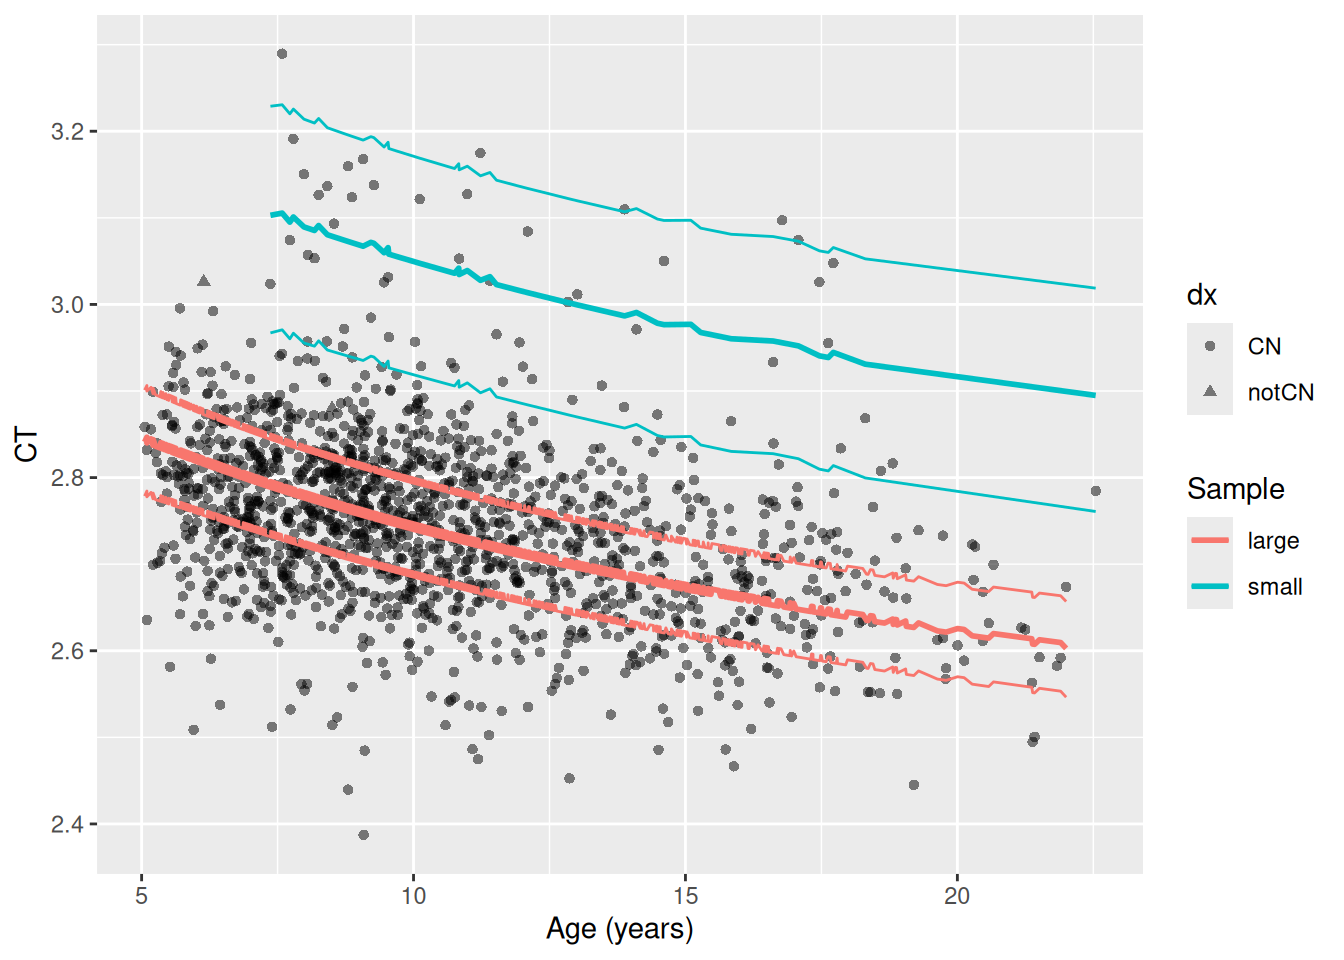
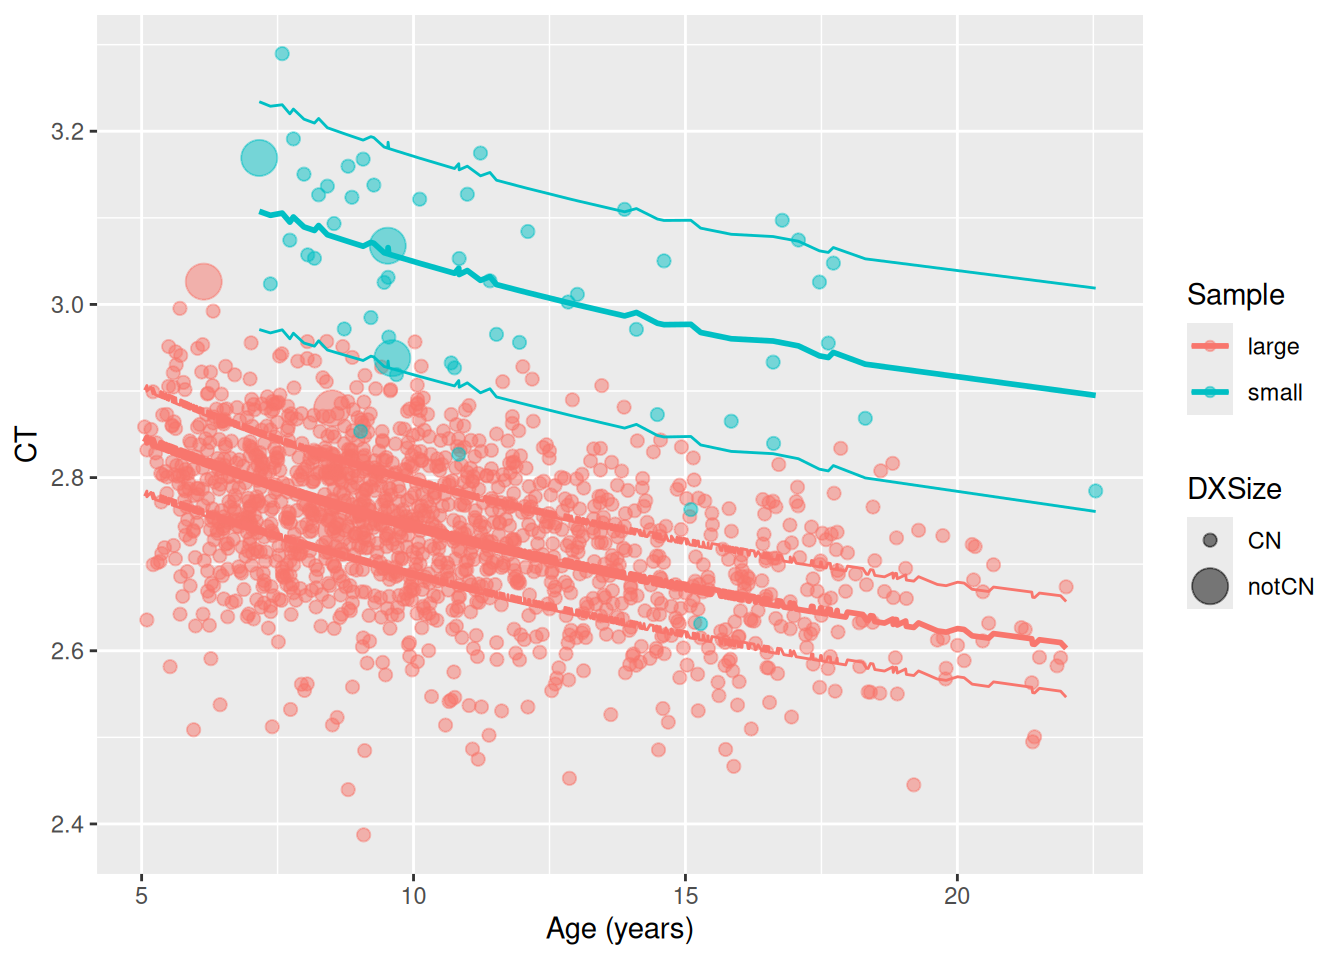
Added patients to calibration. Made patient data points bigger on plots. Explained that the centiles are the frame of reference for comparison after calibration.

diff --git a/docs/calibration_example.html b/docs/calibration_example.html
@@ -520,13 +520,16 @@ sub-NDARZZ598MH8               0.37301763                   0.000265776</code></
 <p>This plot depicts a typical representation of the measured data and the estimated centile lines. The original data are plotted as points with the centile lines overlaid.</p>
 <div class="cell">
 <div class="code-copy-outer-scaffold"><div class="sourceCode cell-code" id="cb19"><pre class="sourceCode r code-with-copy"><code class="sourceCode r"><span id="cb19-1"><a href="#cb19-1" aria-hidden="true" tabindex="-1"></a>T <span class="ot">&lt;-</span> <span class="fu">bind_rows</span>(fullSampleCalibration<span class="sc">$</span>DATA.PRED2, subFakeQuantileCalibration<span class="sc">$</span>DATA.PRED2)</span>
-<span id="cb19-2"><a href="#cb19-2" aria-hidden="true" tabindex="-1"></a></span>
-<span id="cb19-3"><a href="#cb19-3" aria-hidden="true" tabindex="-1"></a><span class="fu">ggplot</span>(T, <span class="fu">aes</span>(<span class="at">x =</span> age_days <span class="sc">/</span> <span class="fl">365.25</span>)) <span class="sc">+</span></span>
-<span id="cb19-4"><a href="#cb19-4" aria-hidden="true" tabindex="-1"></a>  <span class="fu">geom_point</span>(<span class="fu">aes</span>(<span class="at">y =</span> meanCT2Transformed <span class="sc">*</span> <span class="dv">10000</span>, <span class="at">shape =</span> dx), <span class="at">alpha =</span> <span class="fl">0.5</span>) <span class="sc">+</span></span>
-<span id="cb19-5"><a href="#cb19-5" aria-hidden="true" tabindex="-1"></a>  <span class="fu">geom_line</span>(<span class="fu">aes</span>(<span class="at">y =</span> PRED.l250.wre <span class="sc">*</span> <span class="dv">10000</span>, <span class="at">colour=</span>sample)) <span class="sc">+</span> </span>
-<span id="cb19-6"><a href="#cb19-6" aria-hidden="true" tabindex="-1"></a>  <span class="fu">geom_line</span>(<span class="fu">aes</span>(<span class="at">y =</span> PRED.m500.wre <span class="sc">*</span> <span class="dv">10000</span>, <span class="at">colour=</span>sample), <span class="at">linewidth =</span> <span class="dv">1</span>) <span class="sc">+</span></span>
-<span id="cb19-7"><a href="#cb19-7" aria-hidden="true" tabindex="-1"></a>  <span class="fu">geom_line</span>(<span class="fu">aes</span>(<span class="at">y =</span> PRED.u750.wre <span class="sc">*</span> <span class="dv">10000</span>, <span class="at">colour=</span>sample)) <span class="sc">+</span></span>
-<span id="cb19-8"><a href="#cb19-8" aria-hidden="true" tabindex="-1"></a>  <span class="fu">labs</span>(<span class="at">x =</span> <span class="st">"Age (years)"</span>, <span class="at">y =</span> <span class="st">"CT"</span>, <span class="at">colour =</span> <span class="st">"Sample"</span>)</span></code></pre></div><button title="Copy to Clipboard" class="code-copy-button"><i class="bi"></i></button></div>
+<span id="cb19-2"><a href="#cb19-2" aria-hidden="true" tabindex="-1"></a>M <span class="ot">&lt;-</span> <span class="fu">c</span>(<span class="at">CN =</span> <span class="dv">1</span>, <span class="at">notCN =</span> <span class="dv">5</span>)</span>
+<span id="cb19-3"><a href="#cb19-3" aria-hidden="true" tabindex="-1"></a></span>
+<span id="cb19-4"><a href="#cb19-4" aria-hidden="true" tabindex="-1"></a>T<span class="sc">$</span>DXSize <span class="ot">&lt;-</span> <span class="fu">factor</span>(M[T<span class="sc">$</span>dx], <span class="at">labels=</span><span class="fu">c</span>(<span class="st">"CN"</span>, <span class="st">"notCN"</span>))</span>
+<span id="cb19-5"><a href="#cb19-5" aria-hidden="true" tabindex="-1"></a></span>
+<span id="cb19-6"><a href="#cb19-6" aria-hidden="true" tabindex="-1"></a><span class="fu">ggplot</span>(T, <span class="fu">aes</span>(<span class="at">x =</span> age_days <span class="sc">/</span> <span class="fl">365.25</span>)) <span class="sc">+</span></span>
+<span id="cb19-7"><a href="#cb19-7" aria-hidden="true" tabindex="-1"></a>  <span class="fu">geom_point</span>(<span class="fu">aes</span>(<span class="at">y =</span> meanCT2Transformed <span class="sc">*</span> <span class="dv">10000</span>, <span class="at">colour=</span>sample, <span class="at">size =</span> DXSize), <span class="at">alpha =</span> <span class="fl">0.5</span>) <span class="sc">+</span></span>
+<span id="cb19-8"><a href="#cb19-8" aria-hidden="true" tabindex="-1"></a>  <span class="fu">geom_line</span>(<span class="fu">aes</span>(<span class="at">y =</span> PRED.l250.wre <span class="sc">*</span> <span class="dv">10000</span>, <span class="at">colour=</span>sample)) <span class="sc">+</span> </span>
+<span id="cb19-9"><a href="#cb19-9" aria-hidden="true" tabindex="-1"></a>  <span class="fu">geom_line</span>(<span class="fu">aes</span>(<span class="at">y =</span> PRED.m500.wre <span class="sc">*</span> <span class="dv">10000</span>, <span class="at">colour=</span>sample), <span class="at">linewidth =</span> <span class="dv">1</span>) <span class="sc">+</span></span>
+<span id="cb19-10"><a href="#cb19-10" aria-hidden="true" tabindex="-1"></a>  <span class="fu">geom_line</span>(<span class="fu">aes</span>(<span class="at">y =</span> PRED.u750.wre <span class="sc">*</span> <span class="dv">10000</span>, <span class="at">colour=</span>sample)) <span class="sc">+</span></span>
+<span id="cb19-11"><a href="#cb19-11" aria-hidden="true" tabindex="-1"></a>  <span class="fu">labs</span>(<span class="at">x =</span> <span class="st">"Age (years)"</span>, <span class="at">y =</span> <span class="st">"CT"</span>, <span class="at">colour =</span> <span class="st">"Sample"</span>)</span></code></pre></div><button title="Copy to Clipboard" class="code-copy-button"><i class="bi"></i></button></div>
 <div class="cell-output-display">
 <div>
 <figure class="figure">

diff --git a/README.md b/README.md
@@ -5,6 +5,8 @@ large population sample.
 
 Please cite the publication ...
 
+Quick link to the example code for calibration: [Calibration example](https://nchadataplatform.github.io/brainchartscentiles/calibration_example.html): Data set up and calibration for a small site calibration using the Healthy Brain Network dataset [[2]](#2).
+
 # Background
 
 Braincharts [[1]](#1) provides formulae that map predictor variables (age, sex, FreeSurfer version) to curves for distribution parameters that characterise brain IDPs cortical thickness, grey matter volume, cranial volume, cortical surface area, subcortical grey matter volume, cerebral white matter volume, lateral ventricle volumes. The curves are based on data from over 100,000 healthy individuals across the lifespan obtained from many samples. The distribution provided by Braincharts is the Generalized Gamma Distribution, which is a three-parameter distribution with location ($$\mu$$) and shape ($$\sigma$$, $$\nu$$) variables. Calibration of non-training samples involves estimating offset factors for parameters $$\mu$$ and $$\sigma$$ ($$\nu$$ is fixed) that shift the predicted distribtions to match that of the novel sample. The Braincharts' method is known to be unstable for small (n < 100) samples. For a small sample with repeated measures in a large (n > 100) sample, such a sample has correction factors that are considered stable, this software allows researchers to leverage repeated samples to improve stability of the small sample correction factors. 
